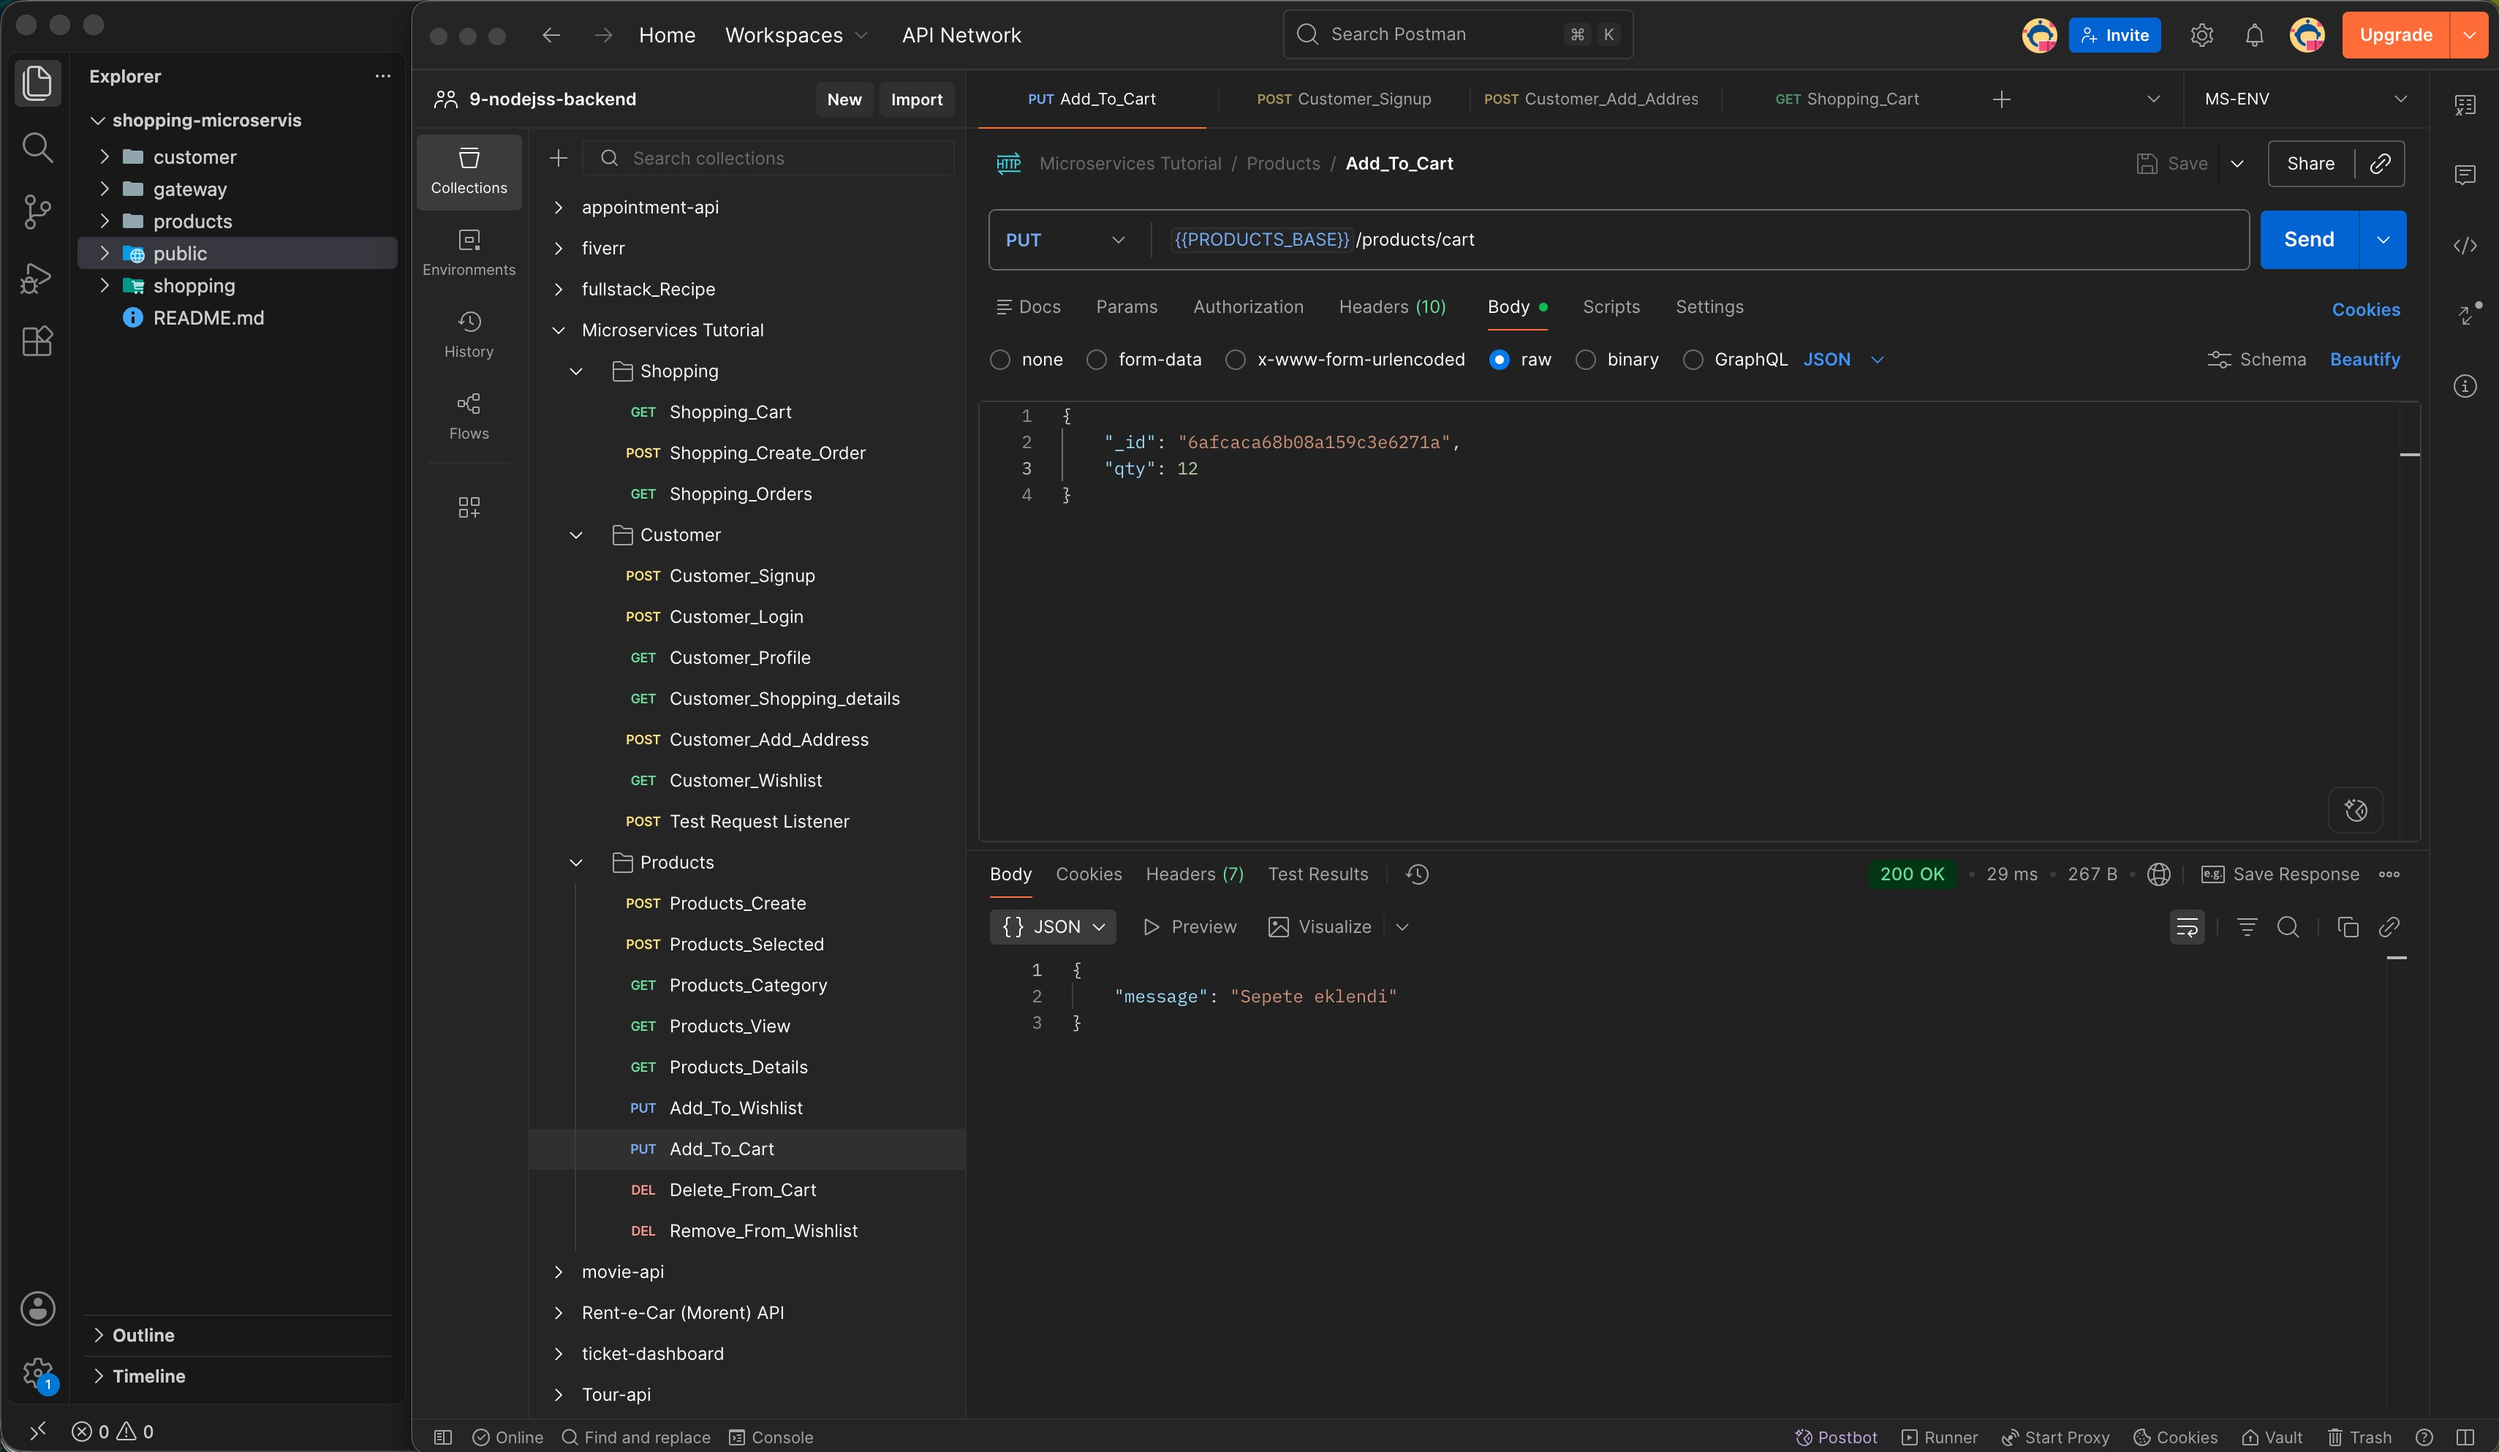
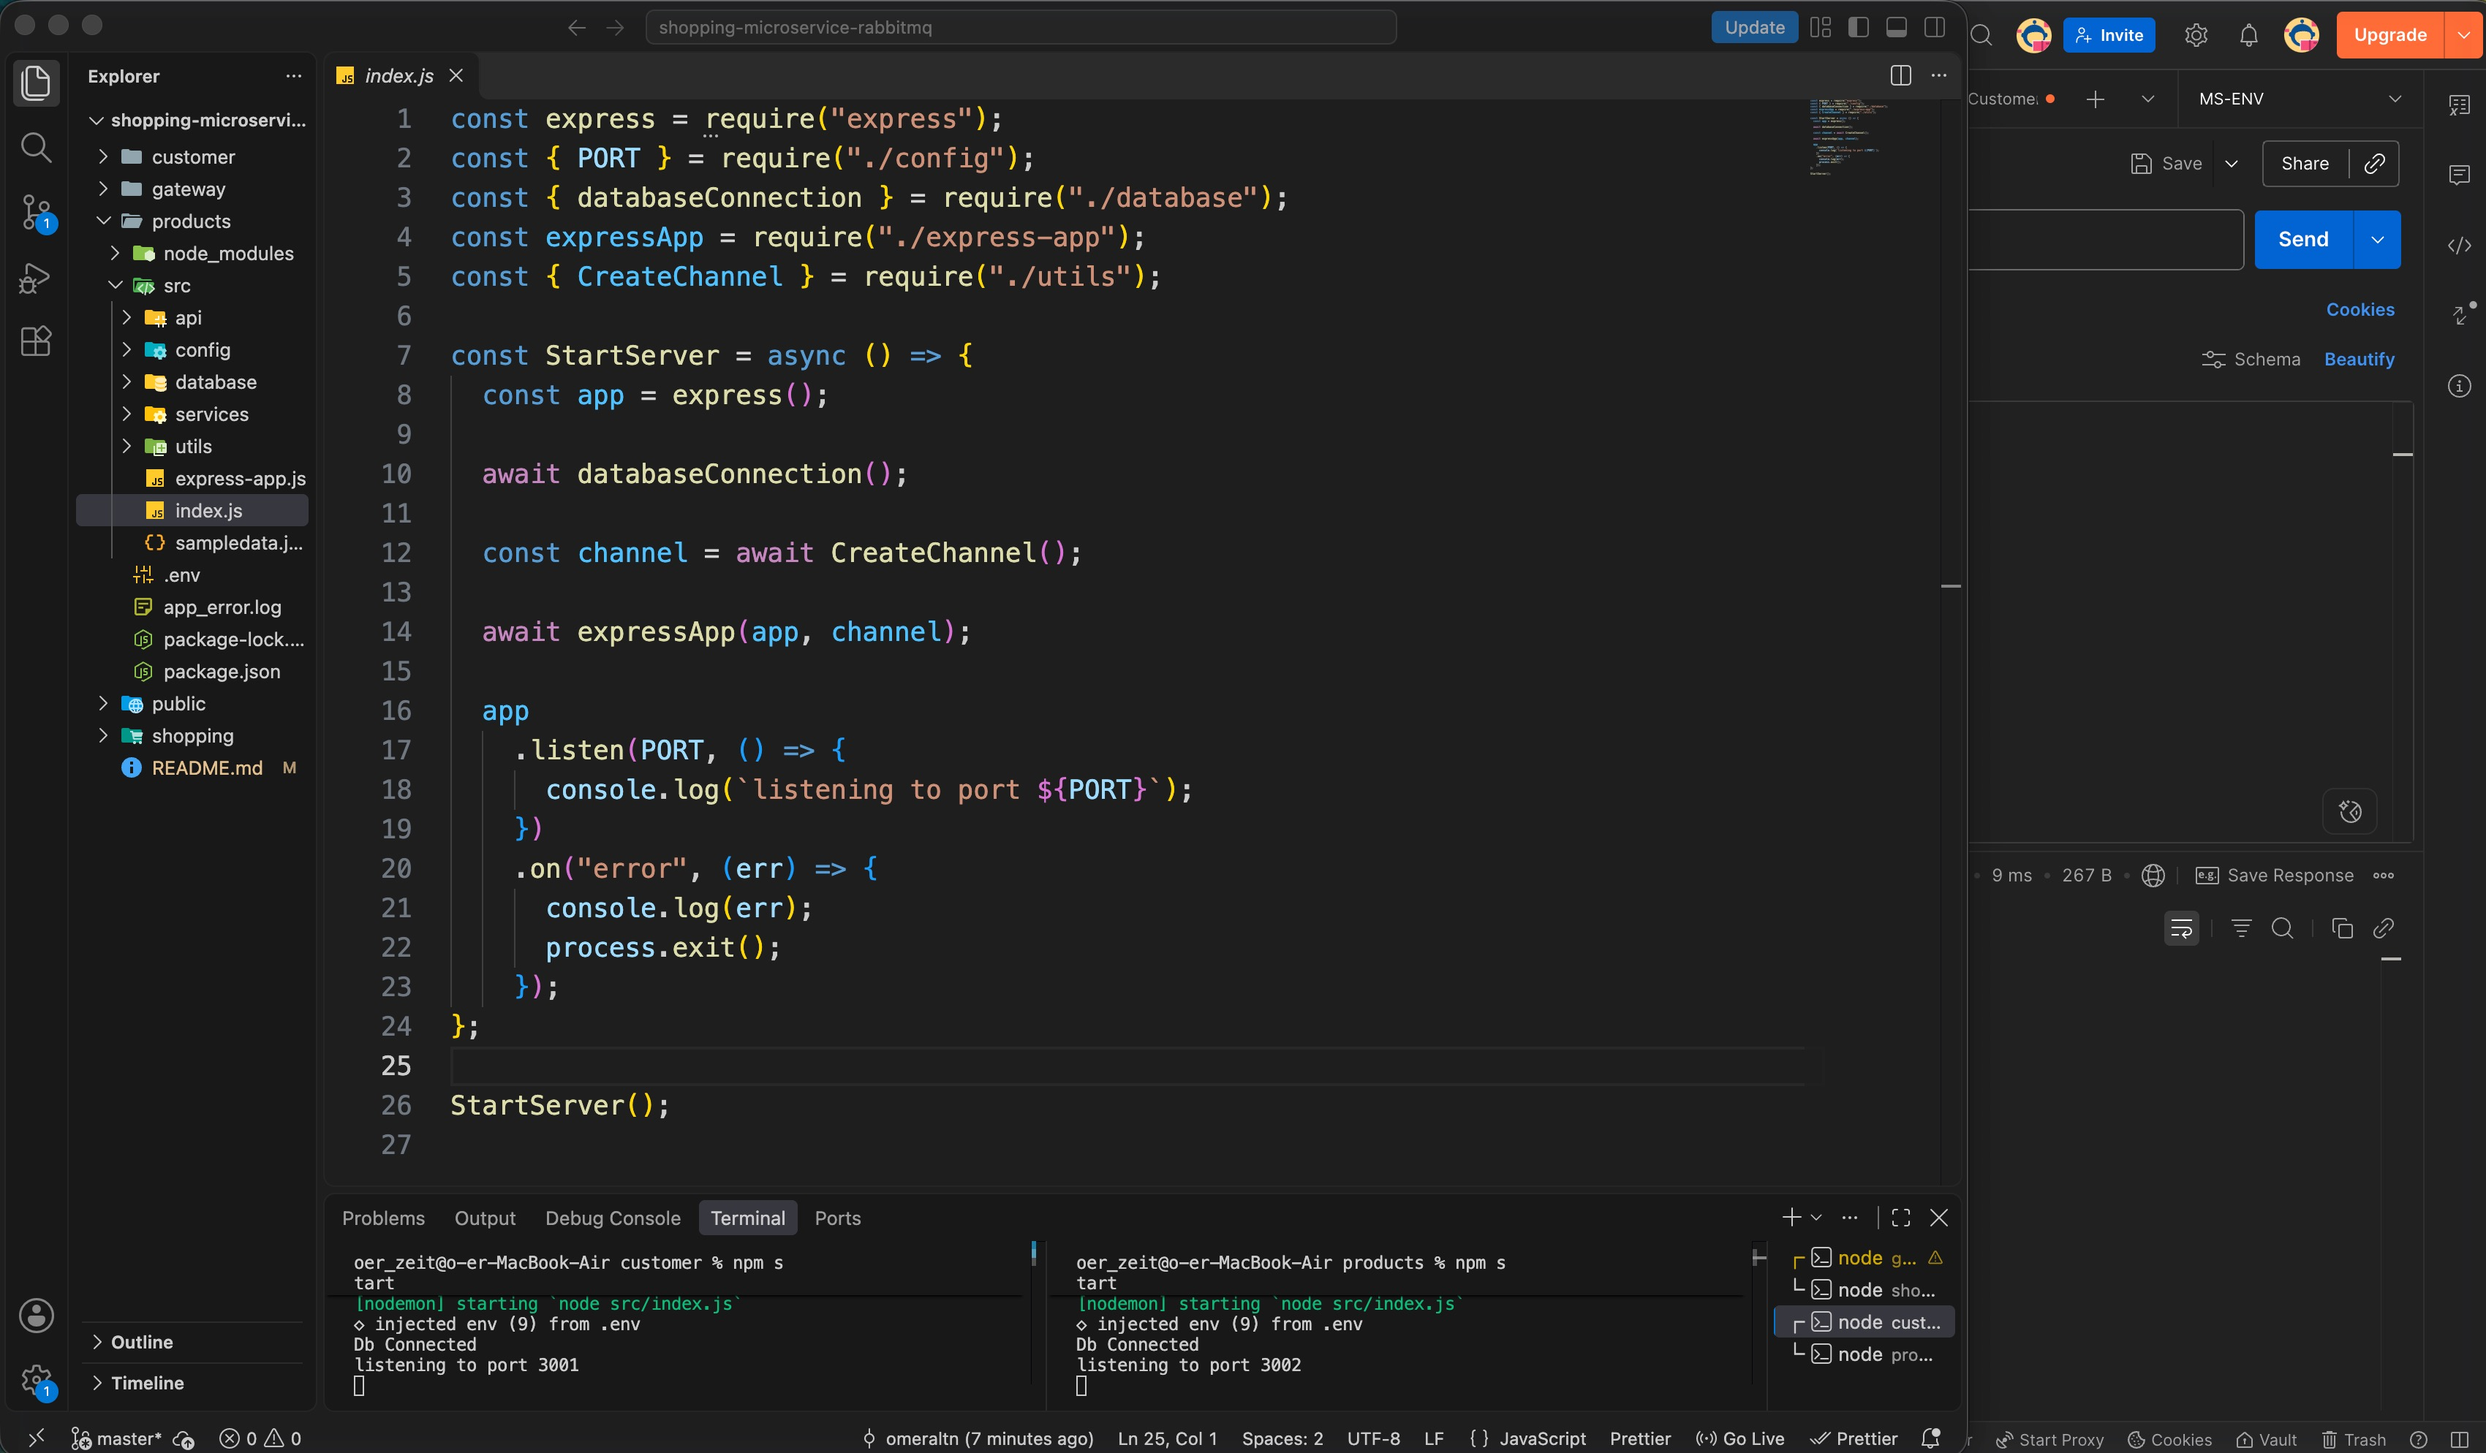
project done and README.md update

diff --git a/README.md b/README.md
@@ -1,39 +1,39 @@
 # Shopping Microservices
 
-Monolitik yapıdaki alışveriş uygulamasını `customer`, `products` ve `shopping` servislerine ayırdığım bir çalışma. Amacım kullandığım teknikleri uygulamak ve mikroservis mimarisi konusundaki deneyimimi geliştirmekti.
+Monolitik alışveriş uygulamasını bağımsız **Customer**, **Products** ve **Shopping** servislerine ayıran bir mikroservis projesi. Servisler arası olay iletişimi, servislerden biri geçici olarak erişilemediğinde diğer servislerin doğrudan HTTP webhook çağrılarına bağlı kalmaması için webhook yapısından **RabbitMQ mesaj kuyruğuna** taşındı. RabbitMQ Docker üzerinde çalıştırılır.
 
 ## Servisler
 
 - **Gateway** — İstekleri ilgili servise yönlendirir.
-- **Customer** — Müşteri, profil ve adres işlemleri.
-- **Products** — Ürün ve kategori işlemleri.
+- **Customer** — Üyelik, profil, adres ve müşteri sepeti/istek listesi işlemleri.
+- **Products** — Ürün ve kategori işlemleri; sepet ve istek listesi olaylarını yayınlar.
 - **Shopping** — Sepet ve sipariş işlemleri.
 
-## Kullanılan teknikler
+## Teknolojiler
 
-Node.js, Express, MongoDB/Mongoose, servis başına ayrı veritabanı, API Gateway (reverse proxy), REST API, HTTP üzerinden servisler arası event/webhook bildirimleri, JWT ve bcrypt.
+Node.js, Express, MongoDB, Mongoose, RabbitMQ (`amqplib`), API Gateway, REST API, JWT ve bcrypt.
 
-## Ekran Görüntü
+## Görseller
 
-![Ekran görüntüsü](./public/screenshot.png)
-
-## GIF
-
-![Proje demosu](./public/demo.gif)
+![Uygulama ekran görüntüsü](./public/screenshot.png)
 
 ## Çalıştırma
 
-Node.js ve MongoDB'nin kurulu olması gerekir. Her servisin klasöründe `.env` dosyası oluşturun:
+Node.js, MongoDB ve Docker üzerinde çalışan bir RabbitMQ broker'ı gereklidir. `customer`, `products` ve `shopping` klasörlerinin her birinde `.env` dosyası oluşturup aşağıdaki değişkenleri yapılandırın:
 
 ```env
-APP_SECRET=yerel-gizli-anahtar
-MONGODB_URI=mongodb://localhost:27017/ms-<servis>-db
-PORT=<servis-portu>
+PORT=
+MONGODB_URI=
+APP_SECRET=
+RABBITMQ_URI=
+EXCHANGE_NAME=
+QUEUE_NAME=
+SHOPPING_ROUTING_KEY=
+CUSTOMER_ROUTING_KEY=
+PRODUCTS_ROUTING_KEY=
 ```
 
-Portlar: `customer` 3001, `products` 3002, `shopping` 3003. `<servis>` yerine ilgili servis adını yazın. `.env` dosyalarını GitHub'a göndermeyin.
-
-Her komutu ayrı bir terminalde, proje ana klasöründen çalıştırın:
+`PORT` değerleri sırasıyla Customer için `3001`, Products için `3002`, Shopping için `3003` olmalıdır. RabbitMQ adresinin uygulama servislerinin çalıştığı ortamdan erişilebilir olduğundan emin olun; `.env` dosyalarını Git'e eklemeyin. Her servis ve gateway için ayrı bir terminal açıp proje ana klasöründen başlatın:
 
 ```bash
 cd customer && npm install && npm start
@@ -42,4 +42,4 @@ cd shopping && npm install && npm start
 cd gateway && npm install && npm start
 ```
 
-Gateway `http://localhost:3000` adresinde çalışır; istekleri `/customer`, `/products` ve `/shopping` yollarına yönlendirir.
+Gateway `http://localhost:3000` adresinde çalışır ve `/customer`, `/products` ile `/shopping` isteklerini ilgili servislere yönlendirir.
